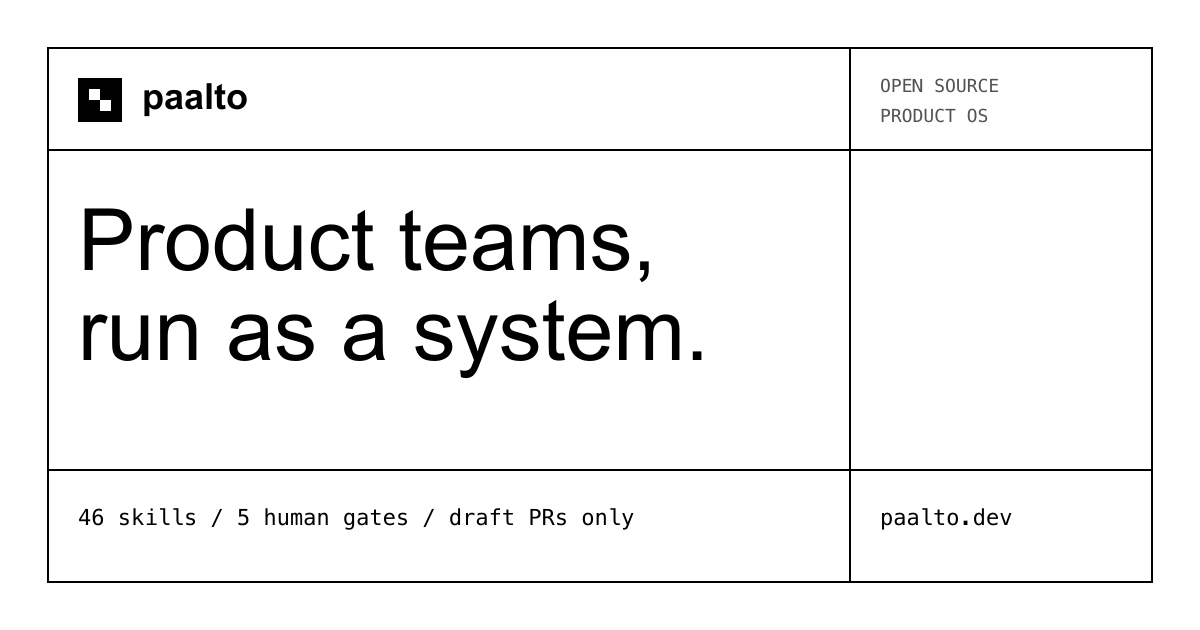
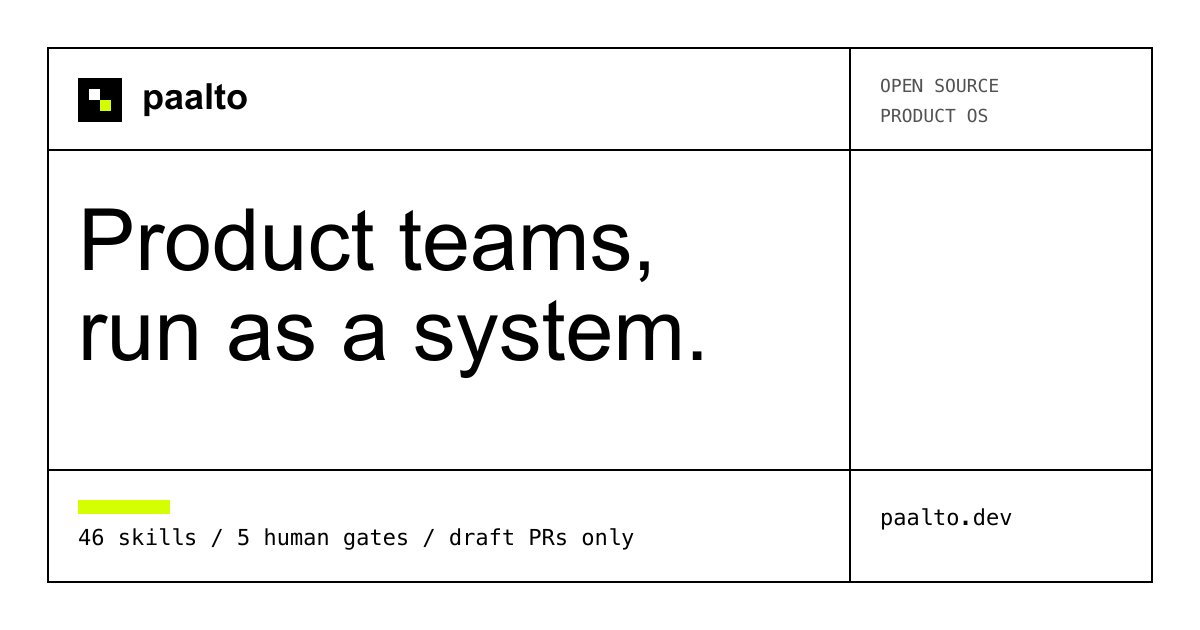
site: restore neon signal accent
Keep the black-and-white IBM-style systems layout, but restore the original neon green as a disciplined signal color.

- Add #D4FF00 back as --signal for primary actions and validation marks.
- Add the signal tile to the favicon and Open Graph artwork.
- Regenerate og.png.
- Update site brand guidance to allow the accent only for actions and validation marks.

Changed region(s): [[0.0617, 0.7841, 0.3392, 0.8746], [0.37, 0.8143, 0.5242, 0.8746], [0.0617, 0.1508, 0.0925, 0.181]]

diff --git a/site/index.html b/site/index.html
@@ -22,6 +22,7 @@
       --gray-70: #525252;
       --gray-20: #d9d9d9;
       --gray-10: #f4f4f4;
+      --signal: #d4ff00;
       --max: 1280px;
       --gutter: clamp(16px, 3vw, 48px);
       --mono: "IBM Plex Mono", ui-monospace, SFMono-Regular, Menlo, Consolas, monospace;
@@ -42,7 +43,8 @@
     .nav { min-height: 56px; display: grid; grid-template-columns: 1fr auto; align-items: stretch; }
     .brand { display: flex; align-items: center; gap: 12px; font-weight: 600; }
     .brand-mark { width: 28px; height: 28px; border: 1px solid var(--black); display: grid; grid-template-columns: repeat(2, 1fr); grid-template-rows: repeat(2, 1fr); }
-    .brand-mark span:nth-child(1), .brand-mark span:nth-child(4) { background: var(--black); }
+    .brand-mark span:nth-child(1) { background: var(--black); }
+    .brand-mark span:nth-child(4) { background: var(--signal); }
     .nav-links { display: flex; align-items: stretch; border-left: 1px solid var(--black); }
     .nav-links a { display: flex; align-items: center; padding: 0 18px; border-right: 1px solid var(--black); font-size: 14px; }
     .nav-links a:last-child { background: var(--black); color: var(--white); }
@@ -60,13 +62,14 @@
     .actions { display: flex; flex-wrap: wrap; margin-top: 44px; border: 1px solid var(--black); width: fit-content; max-width: 100%; }
     .button { min-width: 0; min-height: 52px; display: inline-flex; align-items: center; justify-content: space-between; gap: 18px; padding: 0 22px; font-weight: 500; border-right: 1px solid var(--black); }
     .button:last-child { border-right: 0; }
-    .button.primary { background: var(--black); color: var(--white); }
+    .button.primary { background: var(--signal); color: var(--black); }
     .button:hover { text-decoration: none; background: var(--gray-10); color: var(--black); }
-    .button.primary:hover { background: var(--gray-90); color: var(--white); }
+    .button.primary:hover { background: var(--black); color: var(--white); }
     .hero-panel { border-left: 1px solid var(--black); display: flex; flex-direction: column; }
     .panel-block { padding: 24px; border-bottom: 1px solid var(--black); min-height: 168px; }
     .panel-block:last-child { border-bottom: 0; flex: 1; }
     .panel-number { margin-top: 18px; font-size: clamp(38px, 6vw, 72px); line-height: 1; font-weight: 500; }
+    .panel-number::after { content: ""; display: block; width: 34px; height: 8px; margin-top: 12px; background: var(--signal); }
     .panel-copy { margin-top: 14px; color: var(--gray-70); max-width: 26ch; }
     .thesis { padding-top: 18px; padding-bottom: 18px; font-family: var(--mono); font-size: 13px; color: var(--gray-70); display: flex; justify-content: space-between; gap: 24px; }
     .thesis strong { color: var(--black); font-weight: 500; }
@@ -120,7 +123,7 @@
     .final .kicker, .final .section-intro { color: #bdbdbd; }
     .final .actions { border-color: var(--white); }
     .final .button { border-color: var(--white); color: var(--white); }
-    .final .button.primary { background: var(--white); color: var(--black); }
+    .final .button.primary { background: var(--signal); color: var(--black); border-color: var(--signal); }
     footer { border-top: 1px solid var(--black); }
     .footer-grid { min-height: 92px; display: grid; grid-template-columns: 1fr auto; align-items: center; gap: 24px; }
     .footer-links { display: flex; flex-wrap: wrap; gap: 20px; color: var(--gray-70); font-size: 14px; }

diff --git a/site/README.md b/site/README.md
@@ -37,5 +37,6 @@ git subtree push --prefix site origin gh-pages
 - Background: `#fff`
 - Text: `#000`
 - Lines: `#000` hard grid, 1px borders
+- Signal accent: `#D4FF00`, used only for primary actions and validation marks
 - Type: IBM Plex Sans + IBM Plex Mono
-- No accent color, gradients, shadows, rounded cards, or decorative illustrations.
+- No gradients, shadows, rounded cards, or decorative illustrations.